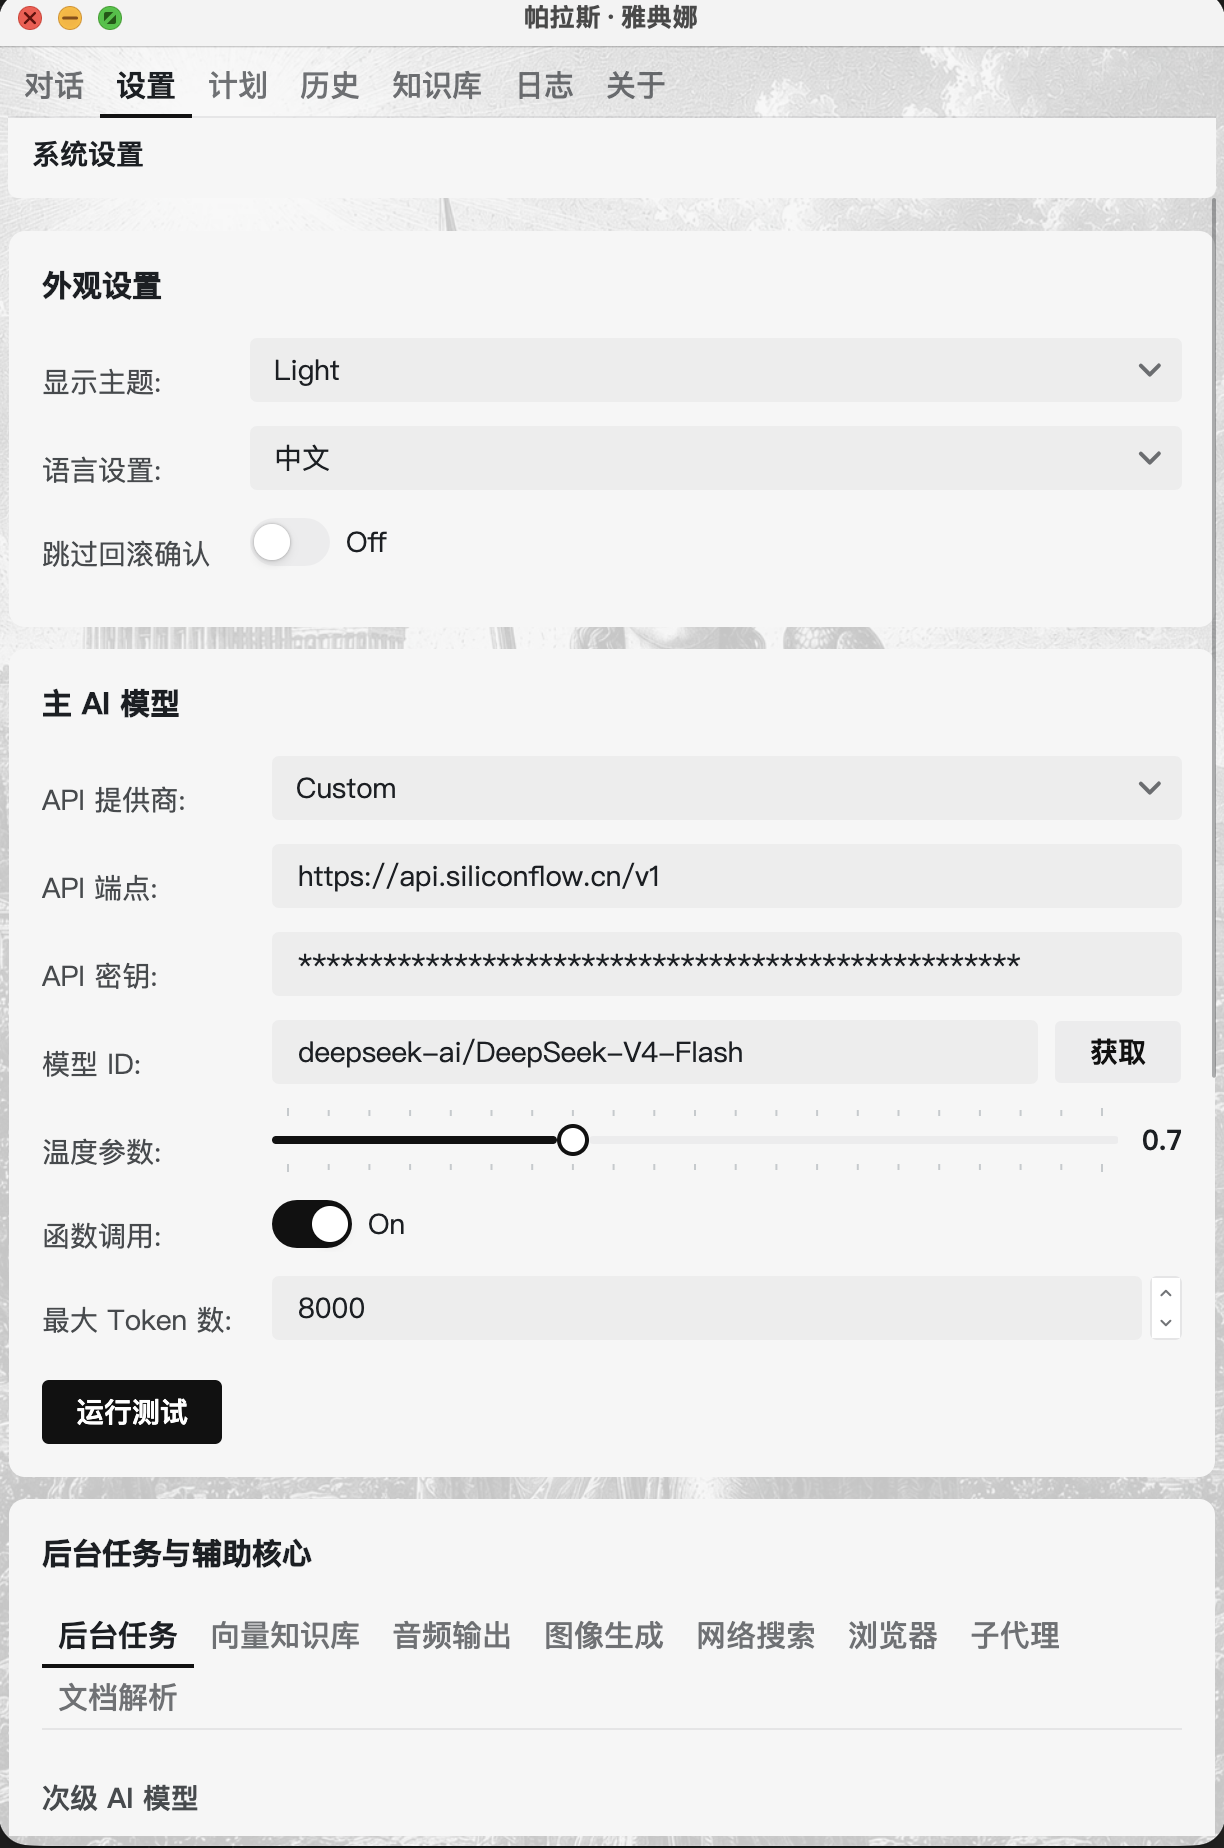
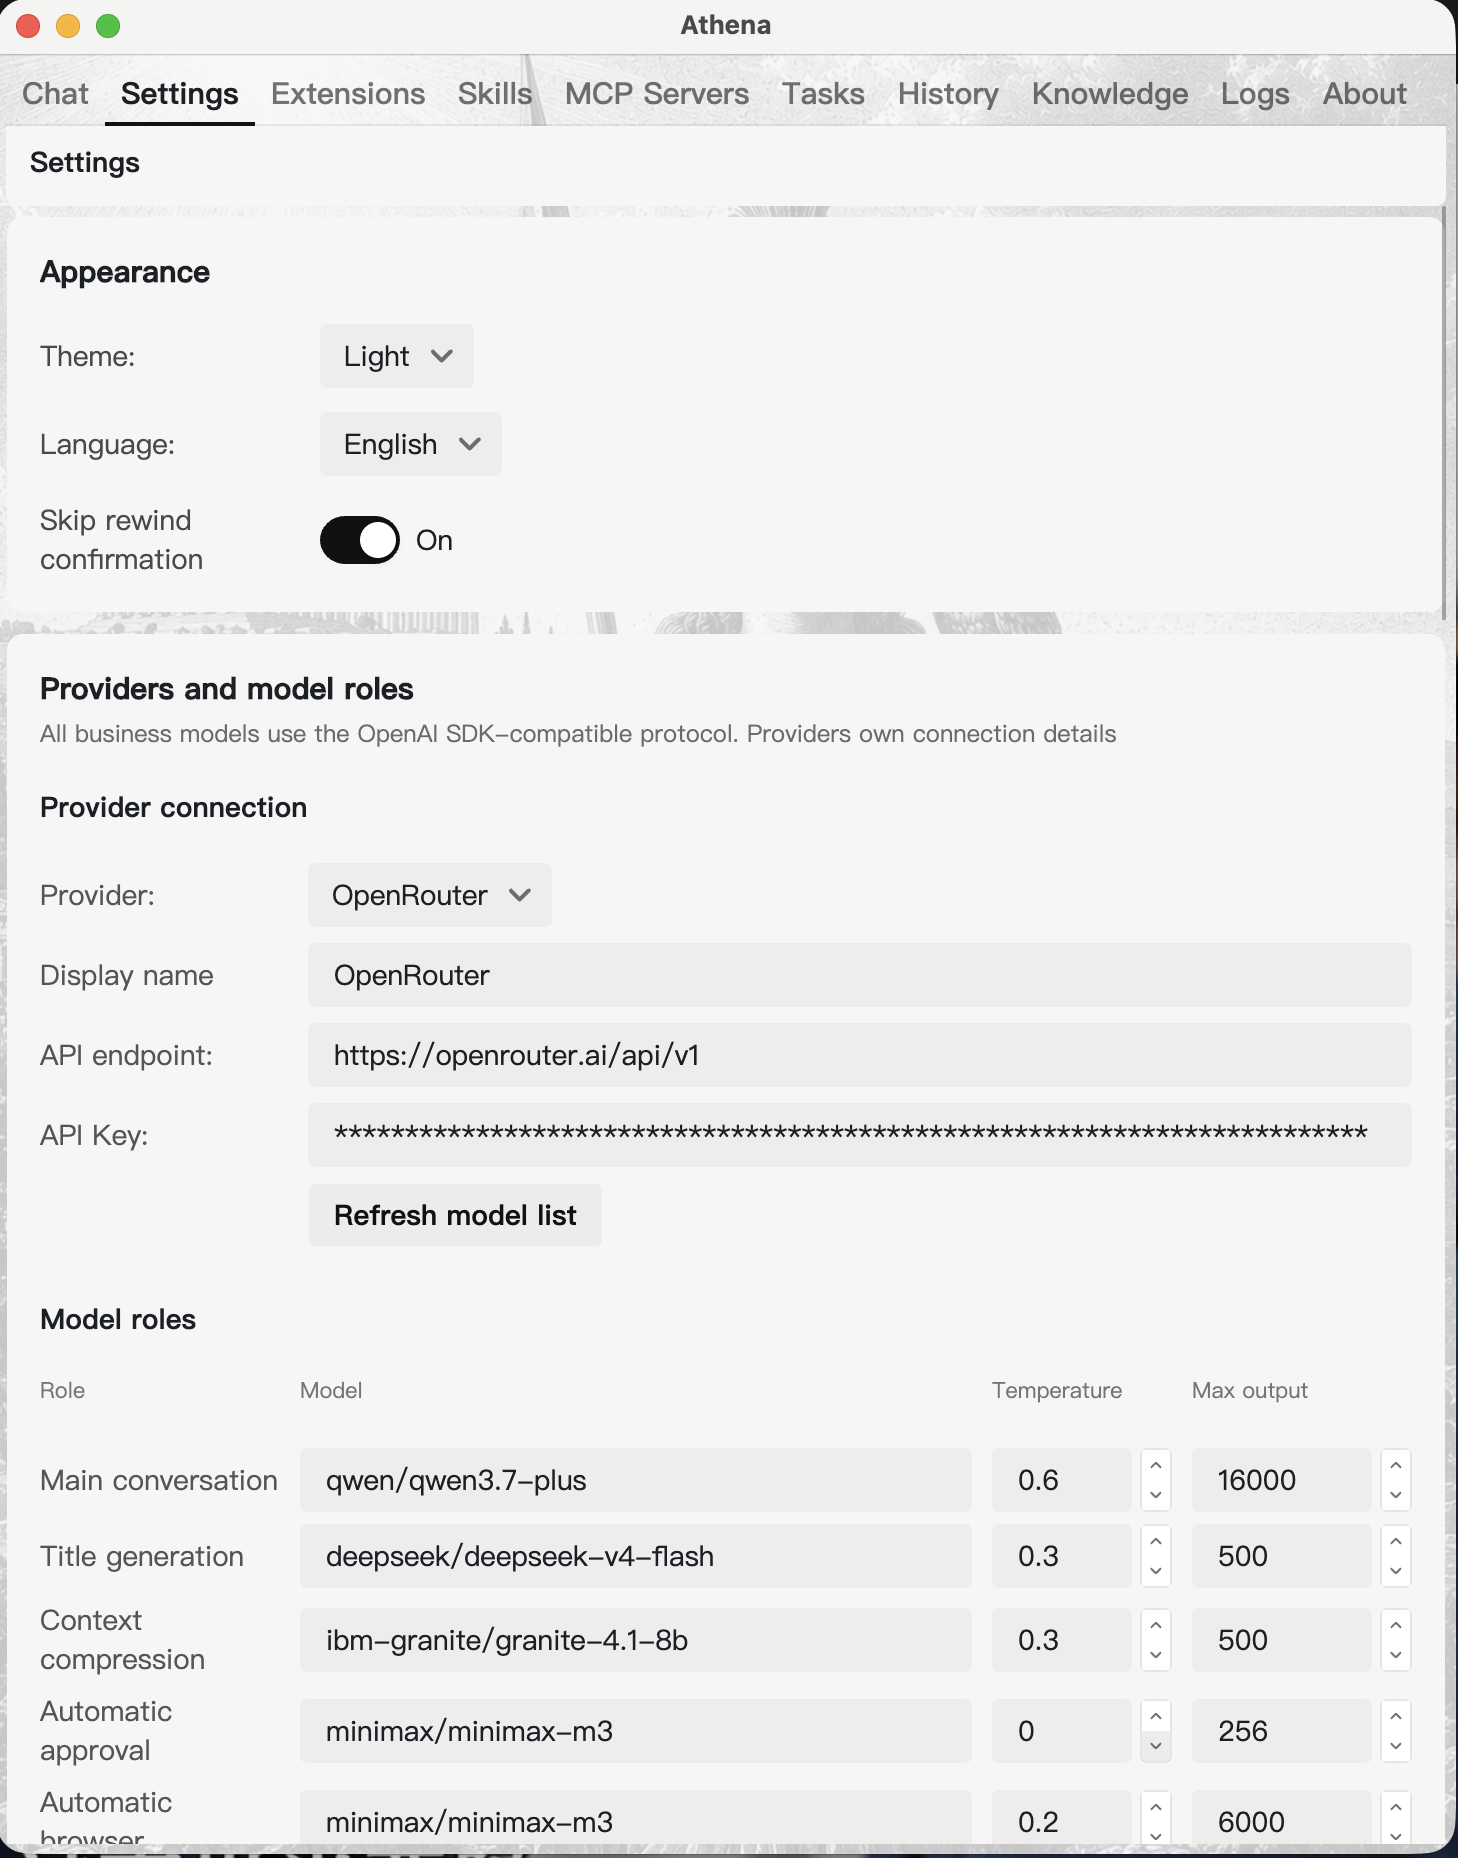
Update documentation with interface screenshots

diff --git a/Docs/Athena_User_Guide_EN.md b/Docs/Athena_User_Guide_EN.md
@@ -4,6 +4,7 @@
 This guide focuses on the following:
 - What the Chat home page does (including attachments, screenshots, and sub-agents).
 - What each major Settings section means and how to configure it.
+- How to enable and manage Extensions, Skills, and MCP servers.
 - How proactive messages work and how to set them up.
 - How the Knowledge Base page works, and how the LLM uses it to actively learn your preferences.
 
@@ -85,15 +86,53 @@ Recommendation:
 - Set `CompressionThreshold` to roughly 40% to 70% of `MaxContextTokens`.
 - For important projects, regularly verify that the summary still preserves key constraints.
 
-## 4. Proactive Messages
+## 4. Extensions
+
+![Extensions page](images/ExtensionsTabView.png)
+
+The Extensions page manages optional capabilities such as voice, image generation, and web search. Changes are saved automatically.
+
+- **Voice**: Enable voice, then configure the provider, API endpoint, API key, model name, and voice. Auto-play can be controlled separately; use **Diagnostics** to check the configuration.
+- **Image generation**: Enable it to let the assistant use `generate_image`; provide its API endpoint, API key, and model name.
+- **Web search**: Enable it to let the assistant use `web_search` for current information; configure the endpoint and credentials for the selected provider.
+
+Recommendation: enable only the extensions you use. Keep API keys in local configuration and never paste them into ordinary chats or Knowledge Base files.
+
+## 5. Skills
+
+![Skills page](images/SkillsTabView.png)
+
+Skills give Athena reusable, specialized workflows for particular kinds of work.
+
+1. Turn on the global **Enable Skills** switch.
+2. Use **Import ZIP** or **Import folder** to add one Skill, or use **Open folder** to manage the local Skills directory directly.
+3. Select **Refresh** to rescan; expand an item to review its source, compatibility, and description.
+4. Use the switch beside a Skill to disable it temporarily; use Delete only when it is no longer needed.
+
+Import a single Skill folder or ZIP archive that contains `SKILL.md`. Once imported, simply ask for a matching task in chat and Athena can select the Skill when appropriate.
+
+## 6. MCP Servers
+
+![MCP Servers page](images/McpTabView.png)
+
+MCP (Model Context Protocol) lets Athena connect to external servers and use the tools and data they provide on demand.
+
+1. Turn on the global **Enable MCP** switch.
+2. Select **Add server** to configure a local command-based or remote HTTP/SSE MCP server, or paste Claude Desktop-format JSON and select **Import**.
+3. After a successful connection, the list shows the number of discovered tools; expand a server for details.
+4. Use the switch beside a server to control its availability. Delete removes the server and stops its local process.
+
+Only add servers you trust. An MCP server may access local files, the network, or third-party services; review the requested action whenever an approval prompt appears.
+
+## 7. Proactive Messages
 Proactive messages are triggered by the system scheduling mechanism. At trigger time, Athena switches to Chat and injects a hidden trigger message so the assistant can initiate the interaction.
 
-### 4.1 Creation methods
+### 7.1 Creation methods
 You can create proactive messages in two ways:
 1. Manual creation: open the Tasks page, create a task, set trigger time, intent, and recurrence, then set task type to `Foreground / Proactive`.
 2. LLM-assisted creation: directly tell the LLM your reminder goal and schedule in chat, and it will create the proactive task through built-in system mechanisms.
 
-### 4.2 Intent writing template (recommended)
+### 7.2 Intent writing template (recommended)
 Write intent as an executable instruction, not a vague reminder:
 - Goal: what should be advanced.
 - Context: project/state anchor.
@@ -102,36 +141,36 @@ Write intent as an executable instruction, not a vague reminder:
 Example:
 - "Every day 09:30, review Athena doc progress and output: yesterday changes, today risks, next 3 actions."
 
-### 4.3 Usage notes
+### 7.3 Usage notes
 - Proactive is for interruptions you want to see and interact with.
 - Background is for silent execution without interrupting chat flow.
 
-## 5. Knowledge Base and Long-Term Memory
+## 8. Knowledge Base and Long-Term Memory
 
 ![Knowledge base page](images/KnowledgeTabView.png)
 
-### 5.1 The Knowledge Base page
+### 8.1 The Knowledge Base page
 - The left panel is the directory tree; create folders and Markdown files directly to organize long-term memory (for example `user_preferences`, `user_profiles`).
 - The right panel shows file content with a read-only mode; the full file path is displayed at the top.
 - The toolbar provides refresh, import, export, and delete operations.
 - Knowledge base content is synchronously indexed into the vector database: what you write is immediately searchable.
 
-### 5.2 Active memory behavior
+### 8.2 Active memory behavior
 - The LLM continuously learns your working style from both live conversations and knowledge base content — preferred structure, decision boundaries, and priority patterns — and actively reads/writes the knowledge base via `create_new_memory` / `recall_from_memory`.
 - During long sessions, context compression keeps critical summaries so user preferences and project constraints stay available.
 - With draft restore and continued sessions, the LLM builds a progressively more stable collaboration profile for you.
 
-### 5.3 Long-term memory vs short-term memory
+### 8.3 Long-term memory vs short-term memory
 - The knowledge base stores long-term stable facts: terminology, standards, architecture boundaries, historical decisions.
 - Live chat carries short-term dynamic facts: daily progress, temporary tactics, active risks.
 - The LLM combines both layers automatically: stable constraints first, then latest state updates.
 
-### 5.4 Minimal user effort
+### 8.4 Minimal user effort
 - You do not need to restate full constraints every turn; only provide updates when goals or boundaries change.
 - If answers drift, one correction like "continue with existing KB rules and current goal" is usually enough to recover focus.
 - Periodically promote newly stable rules into the knowledge base so the LLM can proactively reuse them next time.
 
-## 6. Reusable High-Quality Prompt Template
+## 9. Reusable High-Quality Prompt Template
 Use this structure repeatedly:
 
 ```text

diff --git a/Docs/Athena_User_Guide_CN.md b/Docs/Athena_User_Guide_CN.md
@@ -4,6 +4,7 @@
 本指南聚焦以下几件事：
 - Chat 首页能做什么（含附件、截图、子代理）。
 - 设置页每类配置项是什么意思、怎么配。
+- 扩展、技能和 MCP 服务器如何启用与管理。
 - 主动消息（定时触发到聊天页）怎么配置和使用。
 - 知识库页面怎么用，以及 LLM 如何借助知识库主动记忆和学习用户偏好。
 
@@ -85,15 +86,53 @@
 - `CompressionThreshold` 建议设为 `MaxContextTokens` 的 40%~70%。
 - 重要项目对话中，定期检查压缩摘要是否保留关键约束（目标、边界、术语、验收标准）。
 
-## 4. 主动消息（Proactive Message）如何使用
+## 4. 扩展
+
+![扩展页](images/ExtensionsTabView.png)
+
+扩展页集中管理语音、图像生成和网络搜索等可选能力。各项配置会自动保存。
+
+- **语音**：打开语音开关后，可配置服务商、API 端点、API 密钥、模型名和音色；可单独设置是否自动播放，并使用“诊断”检查配置是否可用。
+- **图像生成**：打开后，助手可通过 `generate_image` 生成图片；填写对应的 API 端点、API 密钥和模型名即可。
+- **网络搜索**：打开后，助手可使用 `web_search` 查询实时信息；按所选服务商填写端点与凭据。
+
+建议：只开启实际会用到的扩展；密钥仅填写在本机配置中，不要发送到普通对话或知识库文件。
+
+## 5. 技能（Skills）
+
+![技能页](images/SkillsTabView.png)
+
+技能让 Athena 在特定类型的任务中遵循可复用的专业工作流。
+
+1. 打开“启用技能”总开关。
+2. 使用“导入 ZIP”或“导入文件夹”导入一个技能；也可点击“打开文件夹”直接管理本机技能目录。
+3. 点击“刷新”重新扫描；展开某项可查看来源、兼容性和说明。
+4. 用每个技能右侧的开关暂时停用它；确认不再需要时再点击删除。
+
+技能应以单个、包含 `SKILL.md` 的技能文件夹或 ZIP 包导入。导入后，在对话中直接提出匹配的任务即可由 Athena 选择使用。
+
+## 6. MCP 服务器
+
+![MCP 服务器页](images/McpTabView.png)
+
+MCP（Model Context Protocol）让 Athena 连接外部服务器，并按需使用其提供的工具和数据。
+
+1. 打开“启用 MCP”总开关。
+2. 点击“添加服务器”配置一个本地命令型或远程 HTTP/SSE MCP 服务器；也可粘贴 Claude Desktop 格式的 JSON 后点击“导入”。
+3. 连接成功后，列表会显示已发现的工具数；展开服务器可查看详情。
+4. 使用每项右侧开关控制该服务器是否可用；垃圾桶按钮会移除服务器并停止其本地进程。
+
+仅添加可信服务器。MCP 服务器可能访问本地文件、网络或第三方服务；涉及外部工具调用时，请在审批提示中核对实际操作。
+
+## 7. 主动消息（Proactive Message）如何使用
 主动消息由系统调度机制触发：到达触发时间后，系统会自动切到 Chat，并注入一条隐藏触发消息，驱动助手先说话。
 
-### 4.1 创建方式
+### 7.1 创建方式
 你可以通过两种方式创建主动消息：
 1. 手动创建：进入"计划"页面创建任务，填写触发时间、意图（Intent）、循环方式，并将任务类型设为 `Foreground / Proactive`。
 2. 对话委托创建：在聊天中直接告诉 LLM 你的提醒目标和时间安排，LLM 会通过系统内置机制为你建立对应的主动消息任务。
 
-### 4.2 Intent 写法模板（推荐）
+### 7.2 Intent 写法模板（推荐）
 把 Intent 写成"可执行提示"，避免空泛提醒：
 - 目标：要推进什么。
 - 上下文：基于哪个项目/会话状态。
@@ -102,36 +141,36 @@
 示例：
 - "每天 09:30 检查 Athena 文档完善进度，输出：昨日变化、今日风险、下一步 3 条动作。"
 
-### 4.3 使用注意
+### 7.3 使用注意
 - Proactive 适合需要你看到并互动的提醒。
 - Background 适合静默任务，不会主动打断聊天界面。
 
-## 5. 知识库与长期记忆
+## 8. 知识库与长期记忆
 
 ![知识库页](images/KnowledgeTabView.png)
 
-### 5.1 知识库页面
+### 8.1 知识库页面
 - 左侧为目录结构，可直接新建文件夹和 Markdown 文件，组织长期记忆（如 `user_preferences`、`user_profiles`）。
 - 右侧为文件内容视图，支持只读模式查看，顶部显示文件真实路径。
 - 工具栏提供刷新、导入、导出、删除操作。
 - 知识库内容会同步写入向量数据库，写入即可被语义检索命中。
 
-### 5.2 主动记忆机制
+### 8.2 主动记忆机制
 - LLM 会结合当前会话与知识库内容，持续归纳你的常用偏好，例如表达风格、输出结构、决策边界和任务优先级，并通过 `create_new_memory` / `recall_from_memory` 主动读写知识库。
 - 当会话较长时，系统通过上下文压缩保留核心摘要，让"用户偏好 + 项目约束"继续留在有效上下文里。
 - 通过历史草稿恢复与连续对话，LLM 能在多次会话中逐步形成更稳定的协作画像。
 
-### 5.3 知识库中的"长期记忆"与会话中的"短期记忆"
+### 8.3 知识库中的"长期记忆"与会话中的"短期记忆"
 - 知识库承载长期稳定信息：术语、规范、历史决策、架构边界。
 - 当前会话承载短期变化信息：当日进展、临时策略、阶段性风险。
 - LLM 会在回答时融合两类记忆：先参考长期稳定约束，再吸收最新对话变化。
 
-### 5.4 你需要做的最小动作
+### 8.4 你需要做的最小动作
 - 不需要每轮都重复完整约束，只要在目标发生变化时补充新约束即可。
 - 如果你觉得回答开始偏离，只需一句话指出"继续按既有知识库规范和当前目标收敛"，LLM 会自动回收上下文焦点。
 - 定期把新形成且稳定的规则沉淀进知识库，LLM 后续会更主动复用这些记忆。
 
-## 6. 一套可复用的高质量提问模板
+## 9. 一套可复用的高质量提问模板
 你可以反复复用以下结构：
 
 ```text

diff --git a/README.md b/README.md
@@ -20,6 +20,16 @@ Athena is a sophisticated, highly autonomous desktop AI assistant built with **.
 - **🌍 Modern Cross-Platform UI**: Built with Avalonia UI and the Semi Design aesthetic, supporting both light/dark modes and multi-lingual interfaces (English & Chinese).
 - **🛡 Security-First Design**: Implements strict data sandboxing, file system protection, and secure API management.
 
+## 🖼 Interface Preview
+
+| Chat | Knowledge Base |
+| --- | --- |
+| <img src="Docs/images/ChatTabView.png" alt="Athena chat interface" width="280"> | <img src="Docs/images/KnowledgeTabView.png" alt="Athena knowledge base interface" width="280"> |
+| Configuration | Extensions |
+| <img src="Docs/images/ConfigTabView.png" alt="Athena configuration interface" width="280"> | <img src="Docs/images/ExtensionsTabView.png" alt="Athena extensions interface" width="280"> |
+| MCP Servers | Skills |
+| <img src="Docs/images/McpTabView.png" alt="Athena MCP server management interface" width="280"> | <img src="Docs/images/SkillsTabView.png" alt="Athena skills management interface" width="280"> |
+
 ## 🚀 Getting Started
 
 ### Prerequisites

diff --git a/README_CN.md b/README_CN.md
@@ -20,6 +20,16 @@ Athena 是一款高度自主的桌面 AI 助手，基于 **.NET 10** 和 **Avalo
 - **🌍 现代跨平台界面**：基于 Avalonia UI 和 Semi Design，支持浅色/深色模式及多语言界面（英文 & 中文）。
 - **🛡 安全优先设计**：严格的数据沙箱、文件系统保护和 API 安全管理。
 
+## 🖼 界面预览
+
+| 对话 | 知识库 |
+| --- | --- |
+| <img src="Docs/images/ChatTabView.png" alt="Athena 对话界面" width="280"> | <img src="Docs/images/KnowledgeTabView.png" alt="Athena 知识库界面" width="280"> |
+| 配置 | 扩展 |
+| <img src="Docs/images/ConfigTabView.png" alt="Athena 配置界面" width="280"> | <img src="Docs/images/ExtensionsTabView.png" alt="Athena 扩展界面" width="280"> |
+| MCP 服务器 | 技能 |
+| <img src="Docs/images/McpTabView.png" alt="Athena MCP 服务器管理界面" width="280"> | <img src="Docs/images/SkillsTabView.png" alt="Athena 技能管理界面" width="280"> |
+
 ## 🚀 快速开始
 
 ### 环境要求
